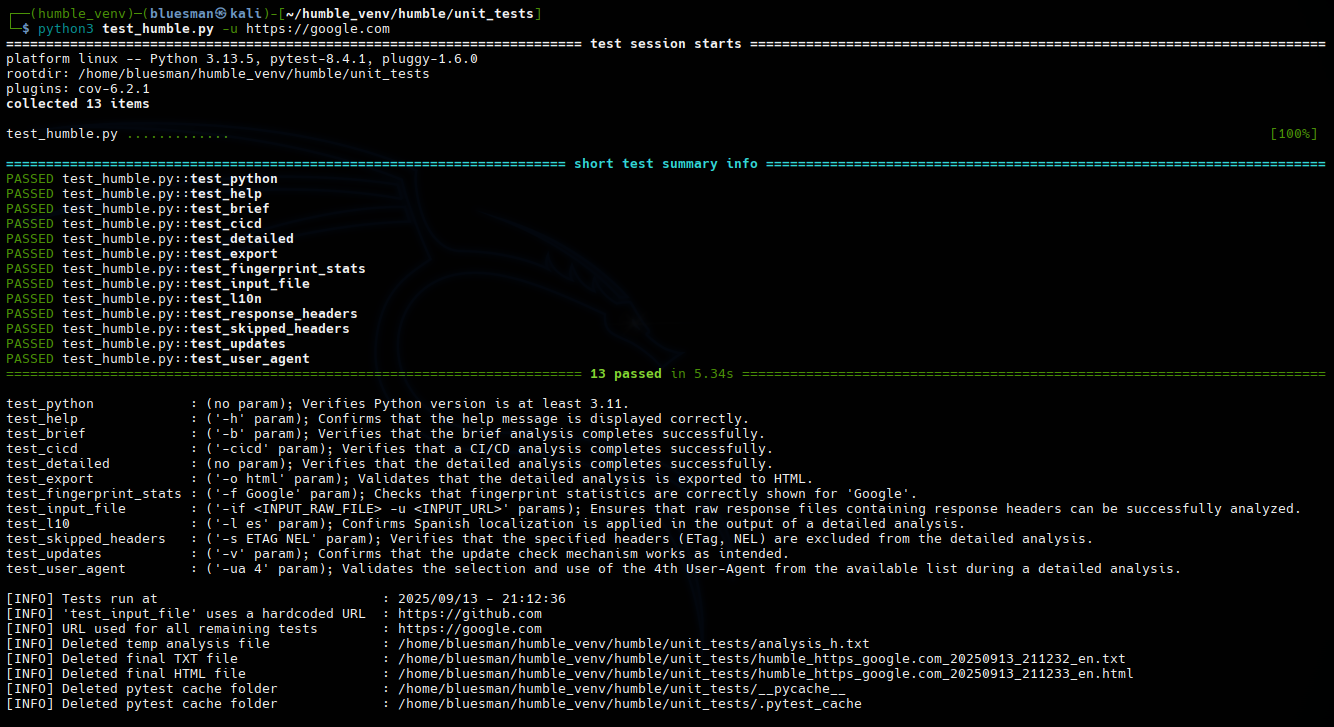
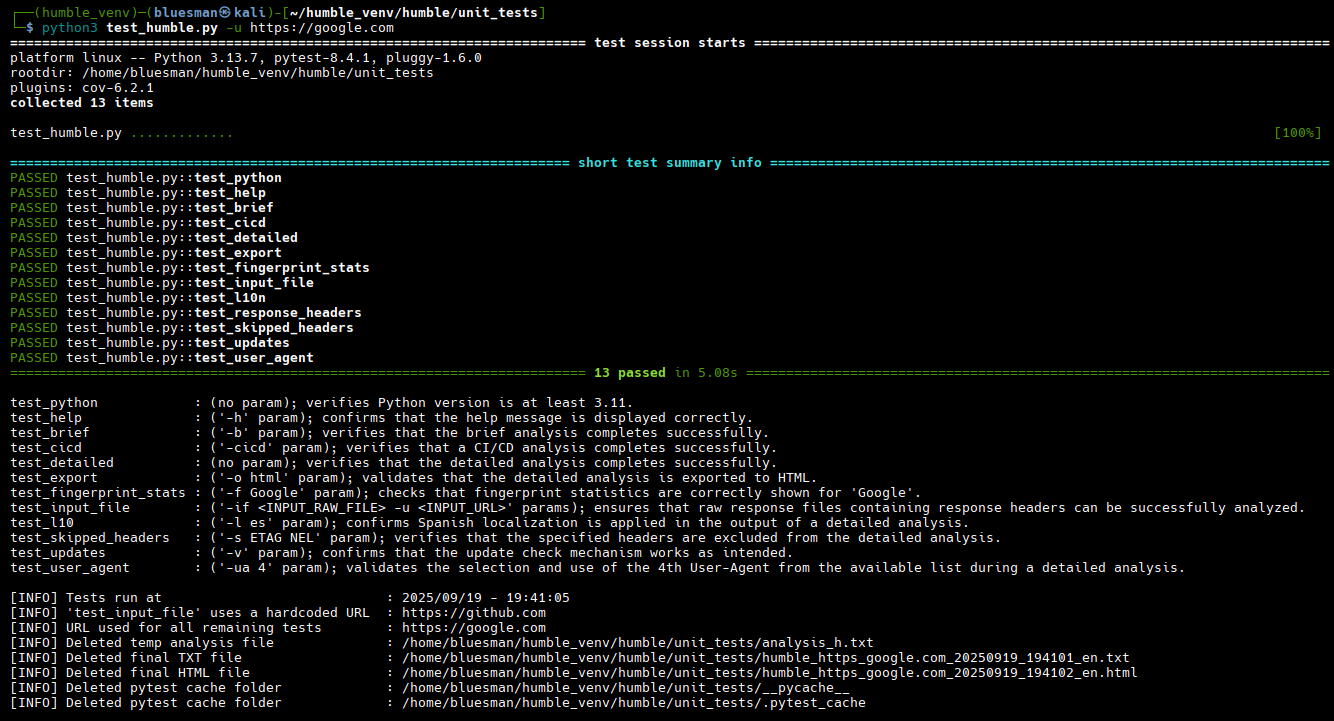
Feature: l10n errors and messages in unit tests

Changed region(s): [[0.0, 0.0, 1.0, 1.0]]

diff --git a/unit_tests/test_humble.py b/unit_tests/test_humble.py
@@ -23,7 +23,7 @@ HUMBLE_INPUT_FILE = path.abspath(path.join(HUMBLE_INPUT_DIR,
                                            'github_input_file.txt'))
 HUMBLE_INPUT_URL = 'https://github.com'
 HUMBLE_L10N_DIR = path.join(HUMBLE_PROJECT_ROOT, 'l10n')
-HUMBLE_L10N_FILE = 'details.txt'
+HUMBLE_L10N_FILE = ('details.txt', 'details_es.txt')
 HUMBLE_MAIN_FILE = path.abspath(path.join(HUMBLE_TESTS_DIR, '..', 'humble.py'))
 INPUT_FILE_URL = "https://github.com"
 REQUIRED_PYTHON = (3, 11)
@@ -64,8 +64,21 @@ def get_detail(id_mode, replace=False):
                 l10n_main[i+1]
 
 
+def print_error_detail(id_mode):
+    print(f"\n{get_detail(id_mode, replace=True)}")
+    sys.exit()
+
+
+def get_l10n_content_old():
+    l10n_path = path.join(HUMBLE_TESTS_DIR, HUMBLE_L10N_DIR, HUMBLE_L10N_DIR)
+    with open(l10n_path, 'r', encoding='utf8') as l10n_content:
+        return l10n_content.readlines()
+
+
 def get_l10n_content():
-    l10n_path = path.join(HUMBLE_TESTS_DIR, HUMBLE_L10N_DIR, HUMBLE_L10N_FILE)
+    l10n_path = path.join(HUMBLE_TESTS_DIR, HUMBLE_L10N_DIR,
+                          HUMBLE_L10N_FILE[1] if args.lang == 'es' else
+                          HUMBLE_L10N_FILE[0])
     with open(l10n_path, 'r', encoding='utf8') as l10n_content:
         return l10n_content.readlines()
 
@@ -102,8 +115,8 @@ def run_test(test_name, args, expected_text):
         pytest.fail(get_detail('[test_timeout]', replace=True))
     if expected_text not in output:
         pytest.fail(
-            f"'{expected_text}' {get_detail('[test_expected]', replace=True)}"
-            )
+            f"{get_detail('[test_expected]', replace=True)} '{expected_text}' \
+{get_detail('[test_notfound]', replace=True)}")
 
 
 def get_python_version(required_python=REQUIRED_PYTHON):
@@ -248,8 +261,7 @@ def delete_temps():
         print(f"[INFO] {message.ljust(max_len + 2)}: {value}")
 
 
-l10n_main = get_l10n_content()
-local_version = datetime.strptime('2025-09-13', '%Y-%m-%d').date()
+local_version = datetime.strptime('2025-09-19', '%Y-%m-%d').date()
 parser = ArgumentParser(
     formatter_class=lambda prog: RawDescriptionHelpFormatter(
         prog, max_help_position=34
@@ -258,15 +270,23 @@ parser = ArgumentParser(
         f"{HUMBLE_DESC} | {HUMBLE_GIT} | v.{local_version}"
     )
 )
+
 parser.add_argument('-u', type=str, dest='URL',
                     help="Scheme, host and port to use in the tests. E.g., \
 https://google.com")
+parser.add_argument("-l", dest='lang', choices=['es'], help="Defines the \
+language for displaying errors and messages; if omitted, will be shown in \
+English")
 
 args = parser.parse_args(args=None if sys.argv[1:] else ['--help'])
 url_test = args.URL
 
+if args.lang and not args.URL:
+    print_error_detail('[test_elang]')
+
+l10n_main = get_l10n_content()
+
 if __name__ == "__main__":
-    l10n_main = get_l10n_content()
     code = pytest.main([__file__, "--tb=no", "-rA", "-q", "-v"])
     print_results()
     delete_temps()

diff --git a/humble.py b/humble.py
@@ -195,7 +195,7 @@ URL_STRING = ('rfc-st', ' URL  : ', 'https://caniuse.com/?')
 XML_STRING = ('Ref: ', 'Value: ', 'Valor: ')
 
 current_time = datetime.now().strftime("%Y/%m/%d - %H:%M:%S")
-local_version = datetime.strptime('2025-09-13', '%Y-%m-%d').date()
+local_version = datetime.strptime('2025-09-19', '%Y-%m-%d').date()
 
 BANNER_VERSION = f'{URL_LIST[4]} | v.{local_version}'
 
@@ -2602,7 +2602,7 @@ parser.add_argument("-s", dest='skip_headers', nargs='*', type=str, help="S\
 kips 'deprecated/insecure' and 'missing' checks for the indicated \
 'SKIP_HEADERS' (separated by spaces)")
 parser.add_argument('-u', type=str, dest='URL', help="Scheme, host and port to\
- analyze. E.g., https://google.com")
+ analyze. E.g., https://google.com or https://google.com:443")
 parser.add_argument('-ua', type=str, dest='user_agent', help="User-Agent ID \
 from 'additional/user_agents.txt' file to use. '0' will show all and '1' is \
 the default")

diff --git a/README.md b/README.md
@@ -6,7 +6,7 @@
 <a target="_blank" href="https://devguide.python.org/versions/" title="Minimum Python version required to run this tool"><img src="https://img.shields.io/badge/Python-%3E%3D3.11-blue?labelColor=343b41"></a>
 <a target="_blank" href="LICENSE" title="License of this tool"><img src="https://img.shields.io/badge/License-MIT-blue.svg?labelColor=343b41"></a>
 <a target="_blank" href="https://github.com/rfc-st/humble/releases" title="Latest release of this tool"><img src="https://img.shields.io/github/v/release/rfc-st/humble?display_name=release&label=Latest%20Release&labelColor=343b41"></a>
-<a target="_blank" href="https://github.com/rfc-st/humble/commits/master" title="Latest commit of this tool"><img src="https://img.shields.io/badge/Latest_Commit-2025--09--13-blue.svg?labelColor=343b41"></a>
+<a target="_blank" href="https://github.com/rfc-st/humble/commits/master" title="Latest commit of this tool"><img src="https://img.shields.io/badge/Latest_Commit-2025--09--19-blue.svg?labelColor=343b41"></a>
 <a target="_blank" href="https://pkg.kali.org/pkg/humble" title="Official tool in Kali Linux"><img src="https://img.shields.io/badge/Kali%20Linux-Tool-blue?labelColor=343b41"></a>
 <br />
 <a target="_blank" href="#" title="Featured on:"><img src="https://img.shields.io/badge/Featured%20on:-343b41"></a>
@@ -283,9 +283,9 @@ https://github.com/rfc-st/humble/releases
 $ git clone https://github.com/rfc-st/humble.git
 https://github.com/rfc-st/humble/releases
 
-# Build the Docker image inside the 'humble' folder: providing the TAG as the latest Release of 'humble' (e.g. 1.52)
+# Build the Docker image inside the 'humble' folder: providing the TAG as the latest Release of 'humble' (e.g. 1.53)
 # https://github.com/rfc-st/humble/releases (On Windows, this may require running the terminal with admin privileges)
-$ docker build -t humble:1.52 .
+$ docker build -t humble:1.53 .
 
 # Run the analysis specifying the above TAG, along with the specific options for 'humble':
 # '-it', required: allocate a pseudo-TTY and keep input interactive.
@@ -293,14 +293,14 @@ $ docker build -t humble:1.52 .
 
 # (Linux/macOS)
 # E.g. Analyze https://google.com (brief analysis)
-$ docker run -it --rm --name humble humble:1.52 /bin/bash -c "python3 humble.py -u https://google.com -b"
+$ docker run -it --rm --name humble humble:1.53 /bin/bash -c "python3 humble.py -u https://google.com -b"
 
 # (Windows)
 # E.g. Analyze https://google.com (detailed analysis)
-$ docker run -it --rm --name humble humble:1.52 python3 humble.py -u https://google.com
+$ docker run -it --rm --name humble humble:1.53 python3 humble.py -u https://google.com
 
 # (Optional) Remove and untag the previous 'humble' image after upgrading
-$ docker rmi humble:1.52
+$ docker rmi humble:1.53
 ```
 
 ## Installation & update (Kali Linux)
@@ -335,7 +335,7 @@ $ sudo apt install --only-upgrade humble
 usage: humble.py [-h] [-a] [-b] [-c] [-cicd] [-df] [-e [TESTSSL_PATH]] [-f [FINGERPRINT_TERM]] [-g] [-grd] [-if INPUT_FILE] [-l {es}] [-lic]
                  [-o {csv,html,json,pdf,txt,xlsx,xml}] [-of OUTPUT_FILE] [-op OUTPUT_PATH] [-p PROXY] [-r] [-s [SKIP_HEADERS ...]] [-u URL] [-ua USER_AGENT] [-v]
 
-'humble' (HTTP Headers Analyzer) | https://github.com/rfc-st/humble | v.2025-08-30
+'humble' (HTTP Headers Analyzer) | https://github.com/rfc-st/humble | v.2025-09-19
 
 options:
   -h, --help                           show this help message and exit
@@ -357,7 +357,7 @@ options:
   -p PROXY                             Use a proxy for the analysis. E.g., 'http://127.0.0.1:8080'. If no port is specified '8080' will be used
   -r                                   Shows HTTP response headers and a detailed analysis; '-b' parameter will take priority
   -s [SKIP_HEADERS ...]                Skips 'deprecated/insecure' and 'missing' checks for the indicated 'SKIP_HEADERS' (separated by spaces)
-  -u URL                               Scheme, host and port to analyze. E.g., https://google.com
+  -u URL                               Scheme, host and port to analyze. E.g., https://google.com or https://google.com:443
   -ua USER_AGENT                       User-Agent ID from 'additional/user_agents.txt' file to use. '0' will show all and '1' is the default
   -v, --version                        Checks for updates at https://github.com/rfc-st/humble
 
